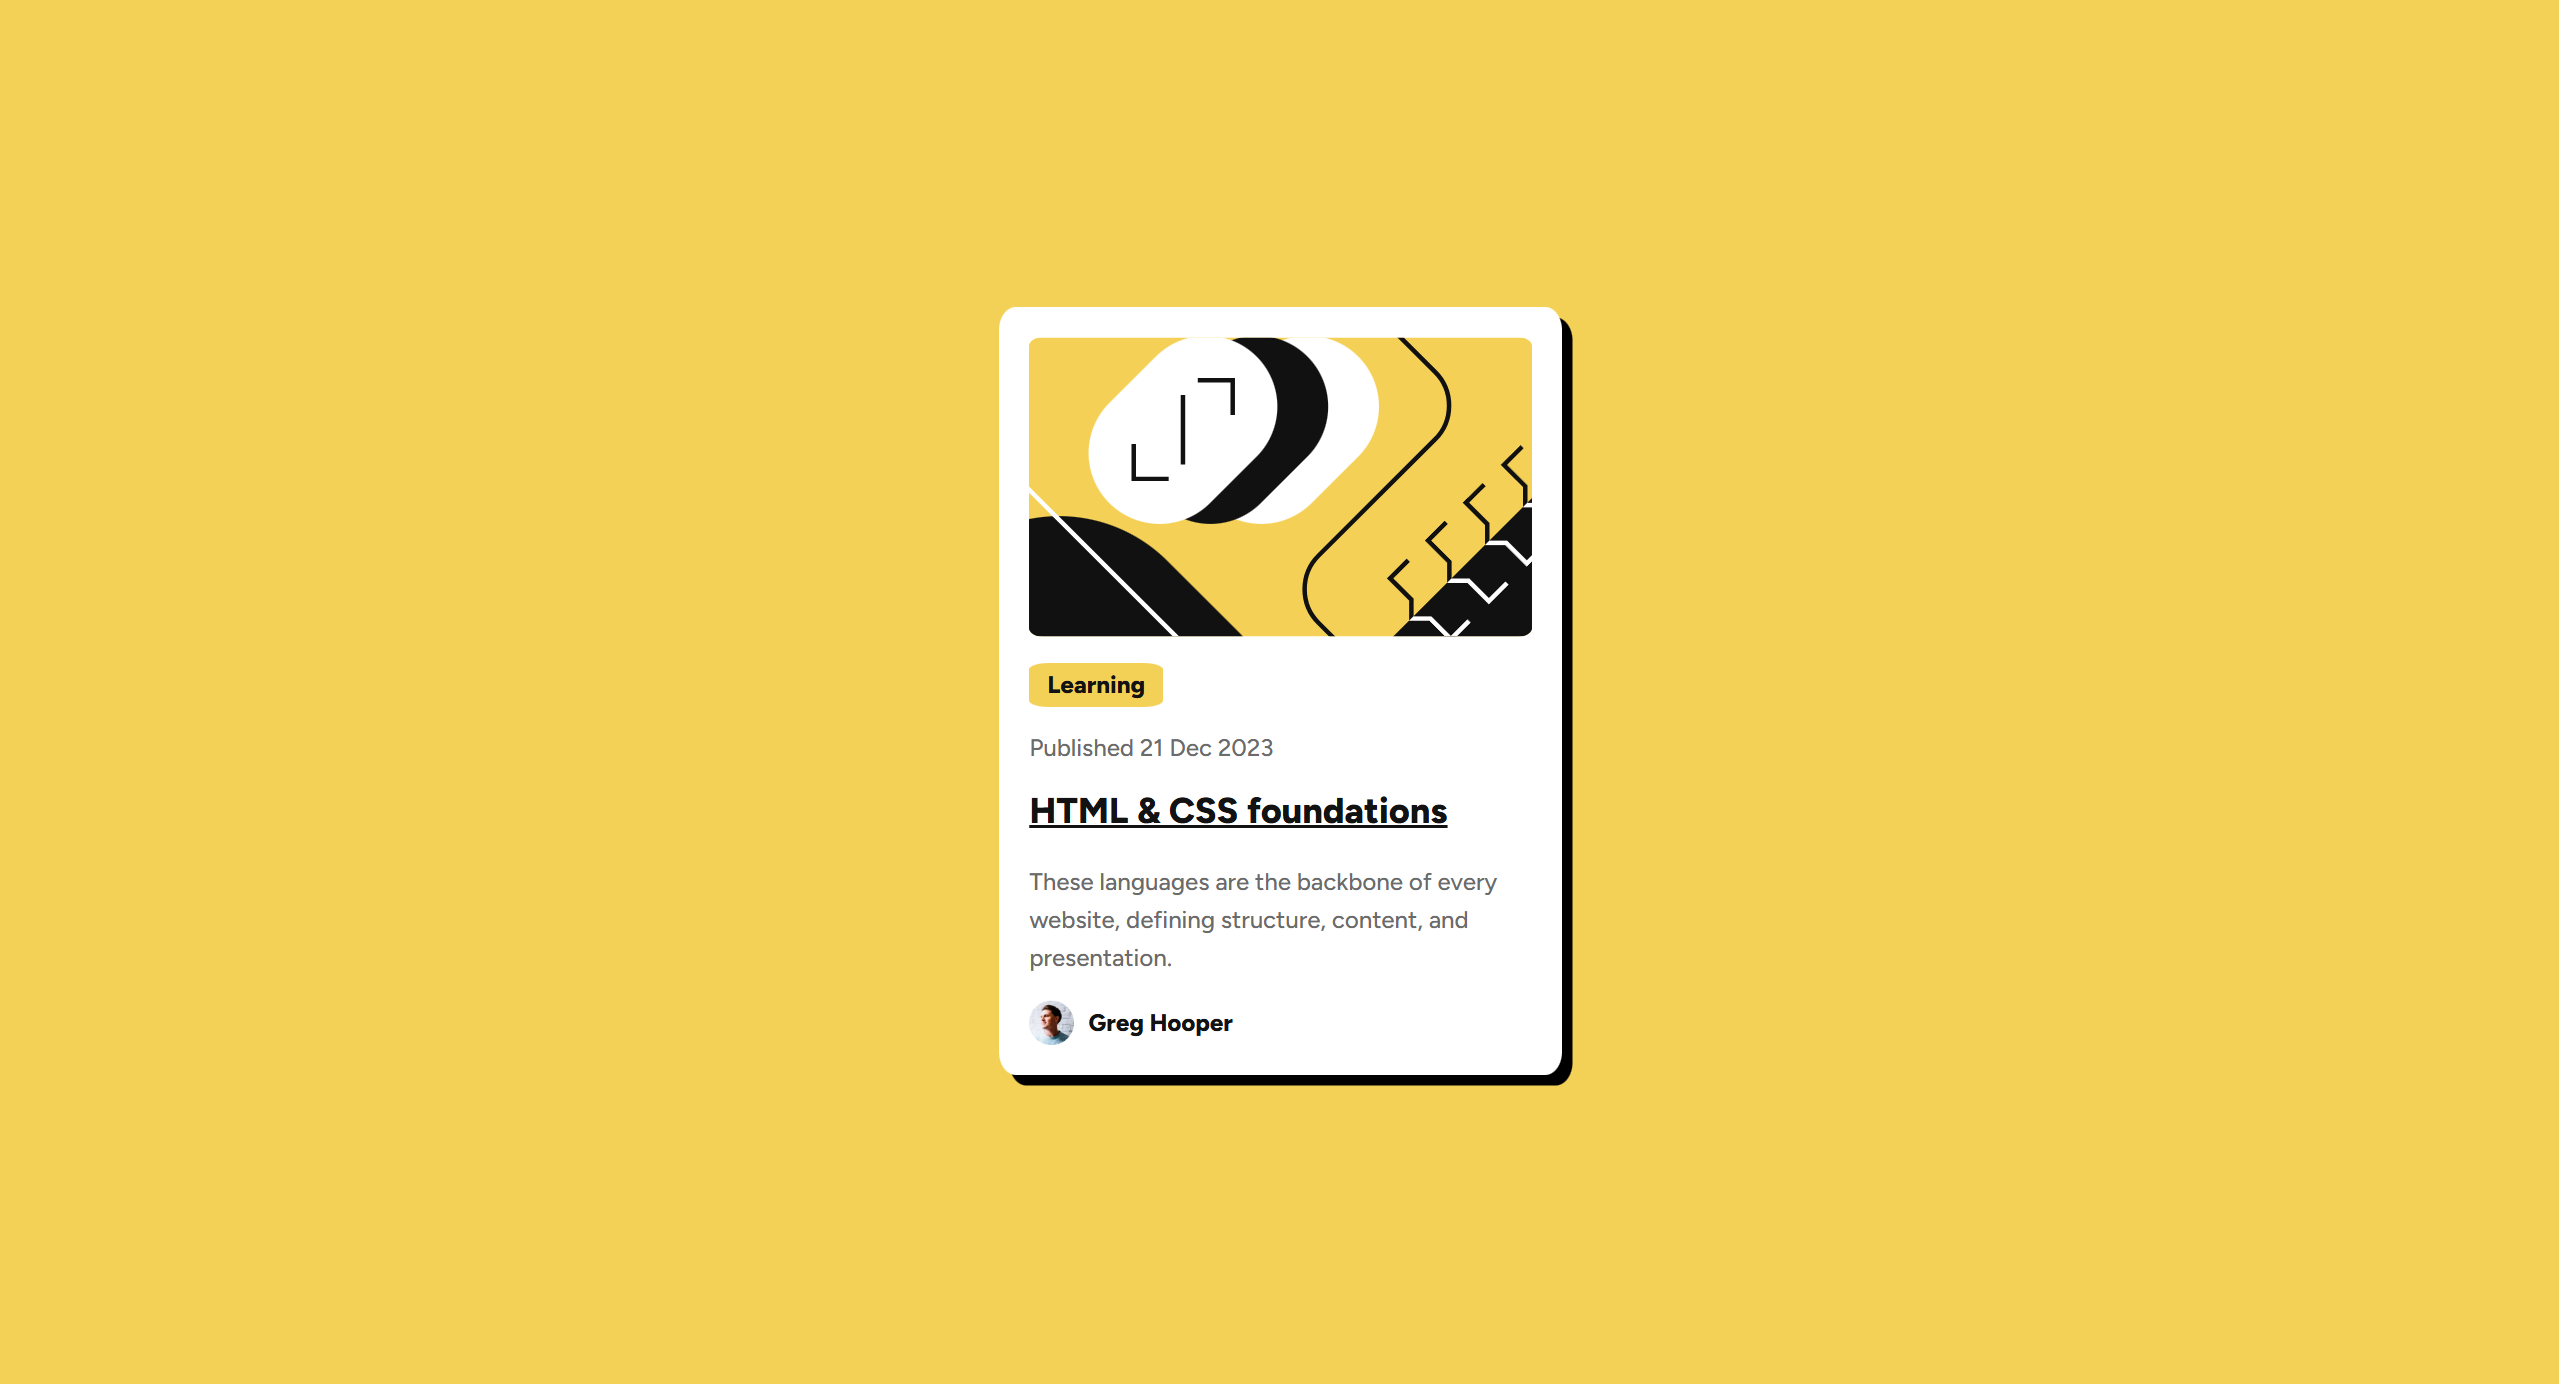
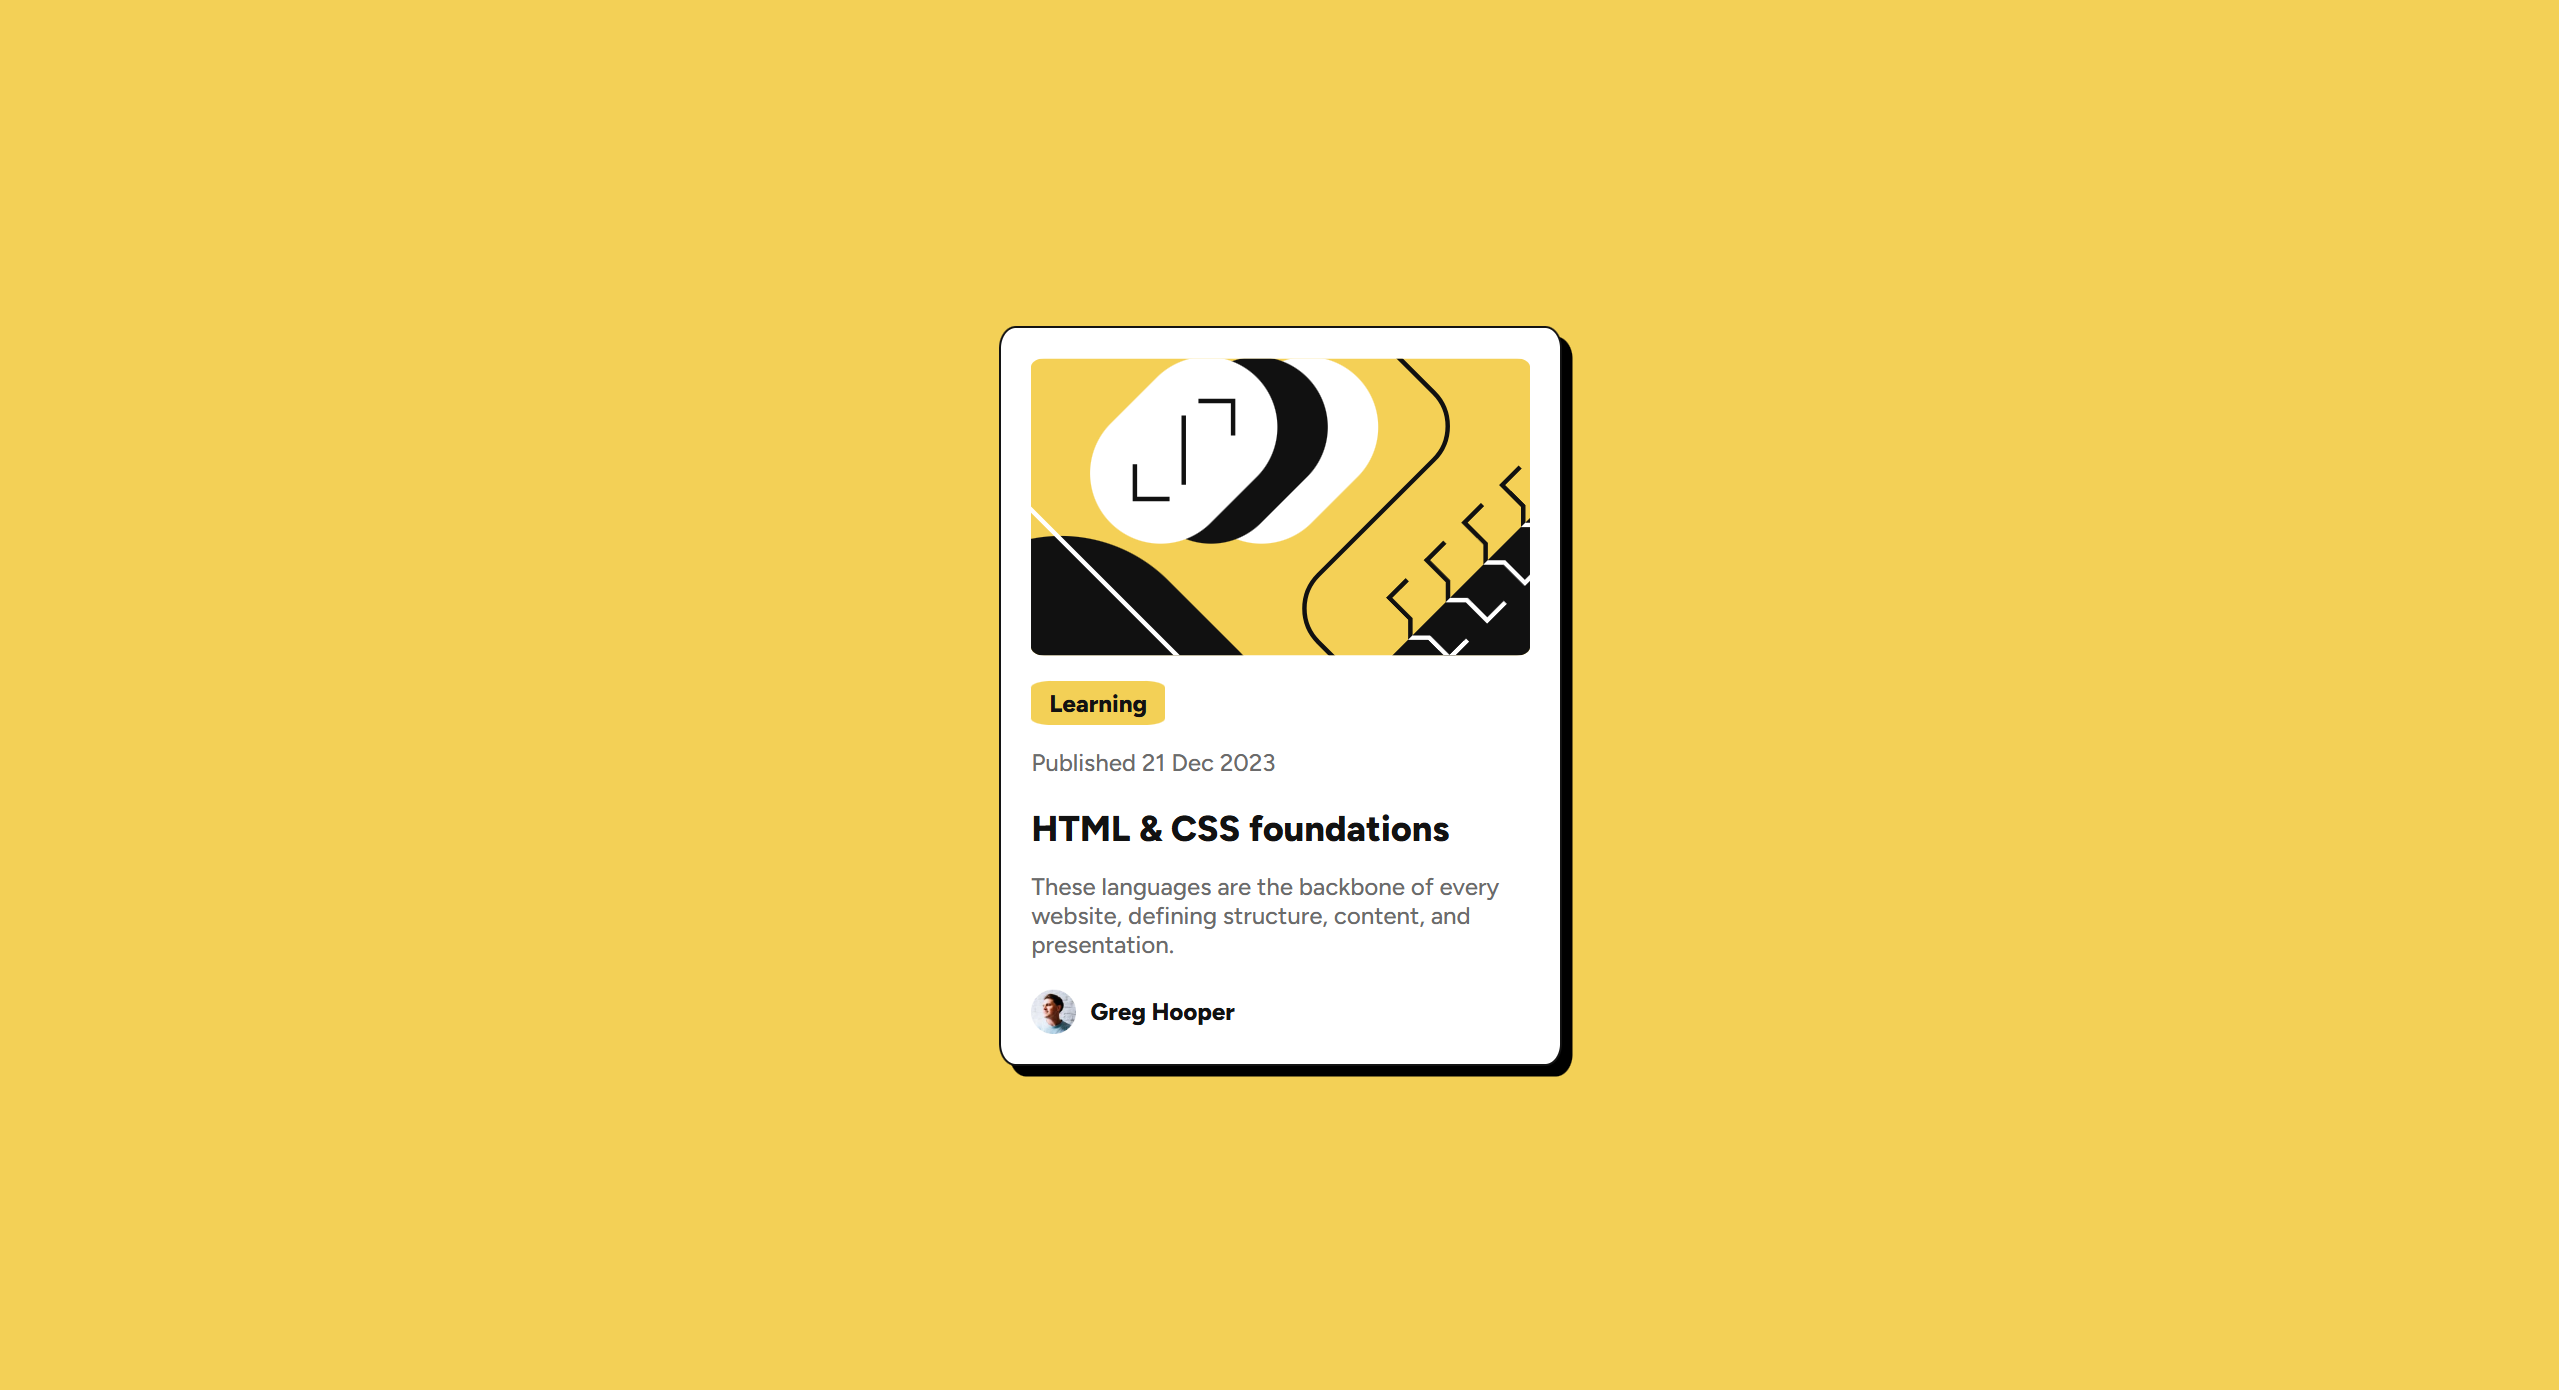
added a thin border and removed text line-height

Changed region(s): [[0.3705, 0.2175, 0.6174, 0.8078]]

diff --git a/styles/styles.css b/styles/styles.css
@@ -18,6 +18,7 @@ body{
     max-width: 375px;
     padding: 20px;
     border-radius: 3%;
+    border: 1.5px solid hsl(0, 0%, 7%);
     box-shadow: 7px 7px 0px 0px rgba(0, 0, 0, 1);
 }
 
@@ -51,23 +52,14 @@ button {
     color: hsl(0, 0%, 7%);
  }
 
- .description {
-    line-height: 1.6;
-    margin-bottom: 15px;
- }
-
- .description p {
-    font-family: "Figtree", serif;
-    font-weight: 500;
-    color: hsl(0, 0%, 42%);
-}
+ 
 
 h2 {
     font-family: "Figtree", serif;
     font-weight: 800;
     color: hsl(0, 0%, 7%);
     margin-bottom: 15px;
-    margin-top: 10px;
+    margin-top: 15px;
 }
 
 a:active {
@@ -76,8 +68,16 @@ a:active {
 
 a {
     color: hsl(0, 0%, 7%);
+    text-decoration: none;
 }
 
+
+.description p {
+    font-family: "Figtree", serif;
+    font-weight: 500;
+    color: hsl(0, 0%, 42%);
+    margin-bottom: 20px;
+}
 
 .writer {
     display: flex;
